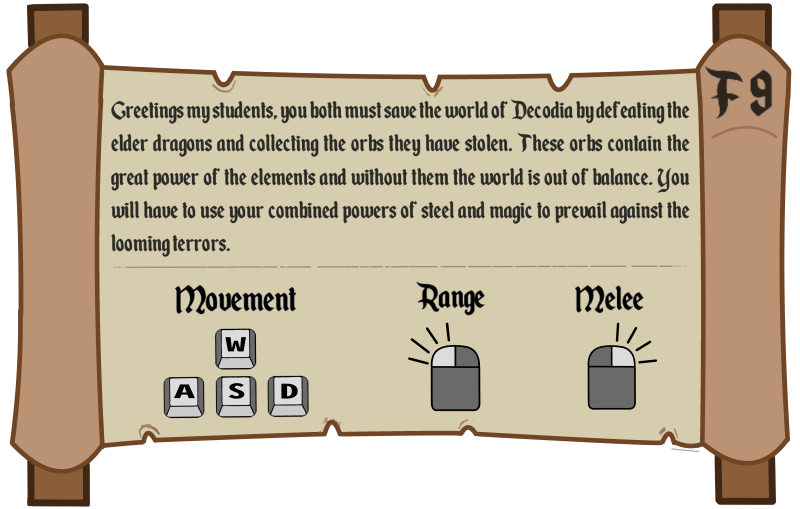
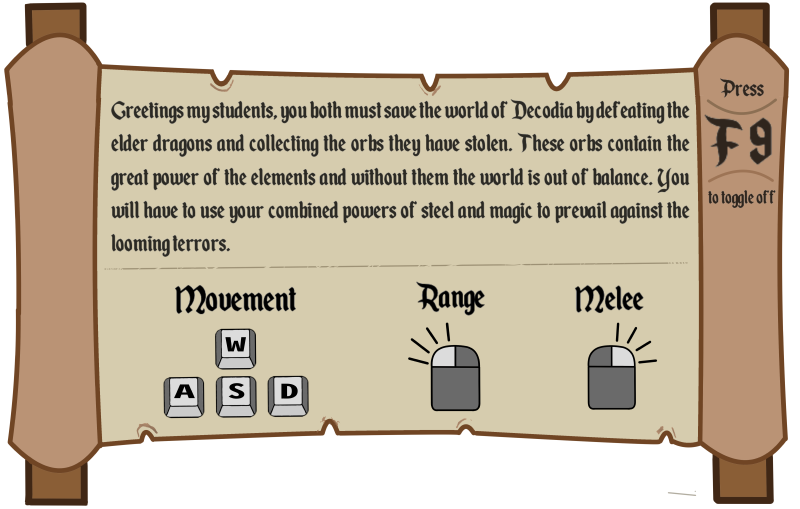
guideline.png updated after user testing + stash.png re-designed

diff --git a/src/main/java/deco2800/thomas/managers/TextureManager.java b/src/main/java/deco2800/thomas/managers/TextureManager.java
@@ -104,7 +104,7 @@ public class TextureManager extends AbstractManager {
 			textureMap.put("stone-3", new Texture("resources/storyline/tile/tile3.png"));
 			textureMap.put("target", new Texture("resources/storyline/object/target.png"));
 			textureMap.put("portal", new Texture("resources/storyline/object/portal.png"));
-			textureMap.put("stash", new Texture("resources/storyline/object/tutorial-stash.png"));
+			textureMap.put("stash", new Texture("resources/storyline/object/stash.png"));
 			textureMap.put("barrel", new Texture("resources/storyline/object/barrel.png"));
 			textureMap.put("chest", new Texture("resources/storyline/object/chest.png"));
 			textureMap.put("dialog-box", new Texture("resources/storyline/guideline.png"));
